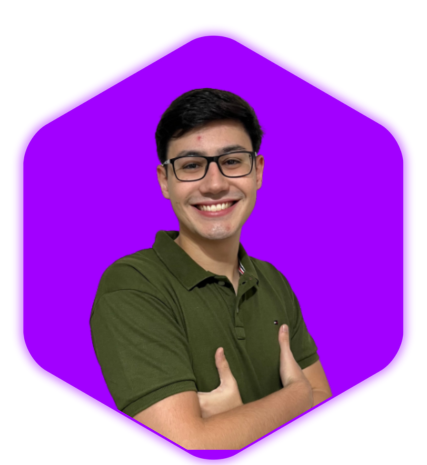
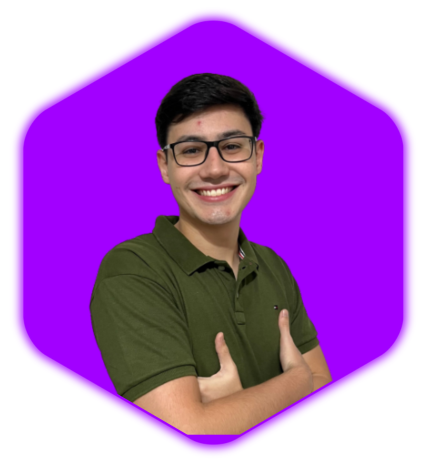
att fotos

Changed region(s): [[0.0304, 0.0, 0.9742, 1.0], [0.3958, 0.6624, 0.4567, 0.6925]]

diff --git a/index.html b/index.html
@@ -75,7 +75,7 @@
                         <p>
                             Meu nome é Gustavo, faço faculdade na Anhembi Morumbi, cursando Engenharia da Computação e estou no final do 5° semestre. Minha aula é no estilo remoto, então tenho disponibilidade para trabalhar tanto no modelo híbrido, quanto presencial. Moro na cidade de Caçapava e atualmente faço freelances para a loja Paraiso do Real.
                         </p>
-                        <p>Meu primeiro estágio foi na Prefeitura Municipal de Caçapava onde estagiei por 2 anos. Além do meu estágio trabalhei em um buffet infantil e fiz um serviço voluntário para adolescentes em comunidades carentes em minha cidade, trazendo noções básicas de HTML e CSS. </p>
+                        <p>Meu primeiro estágio foi na Prefeitura Municipal de Caçapava, onde estagiei por 2 anos. Além do meu estágio trabalhei em um buffet infantil e fiz um serviço voluntário para adolescentes em comunidades carentes em minha cidade, trazendo noções básicas de HTML e CSS. </p>
 
                         <div class="btn-contato">
                             <a href="https://api.whatsapp.com/send/?phone=5512988587407&text&type=phone_number&app_absent=0">
@@ -134,7 +134,7 @@
                     <div class="competencias-box">
                         <img src="images/logo-java.png" alt="">
                         <h3>JAVA</h3>
-                        <p>Minha jornada na faculdade tambpem me presenteou com o Java, uma linguagem robusta e versátil que me abriu portas para um universo de possibilidades na programação. Foi lá que desvendei os segredos da herança e do polimorfismo, conceitos fundamentais para a criação de softwares escaláveis e reutilizáveis. <br>
+                        <p>Minha jornada na faculdade também me presenteou com o Java, uma linguagem robusta e versátil que me abriu portas para um universo de possibilidades na programação. Foi lá que desvendei os segredos da herança e do polimorfismo, conceitos fundamentais para a criação de softwares escaláveis e reutilizáveis. <br>
                         Com o Java, meus horizontes na programação se expandiram, e estou pronto para os desafios que o futuro me reserva!</p>
                     </div><!--competencias-box-->
                 </div> <!--flex-->
@@ -146,7 +146,7 @@
             <div class="interface">
                 <div class="flex">
                     <div class="img-sobre">
-                        <img src="images/foto.png" alt="segunda foto">
+                        <img src="images/foto-2.jpg" alt="segunda foto">
                     </div>
         
                     <div class="txt-sobre">

diff --git a/style.css b/style.css
@@ -176,6 +176,7 @@ section.topo-do-site .flex{
 .topo-do-site .img-topo-site img{
     position: relative;
     animation: flutuar 2s ease-in-out infinite alternate;
+
 }
 
 @keyframes flutuar{
@@ -233,6 +234,10 @@ section.sobre{
     padding: 80px 4%;
 
 }   
+
+.img-sobre img{
+    border-radius: 20px;
+}
 
 section.sobre .flex{
     align-items: center;
